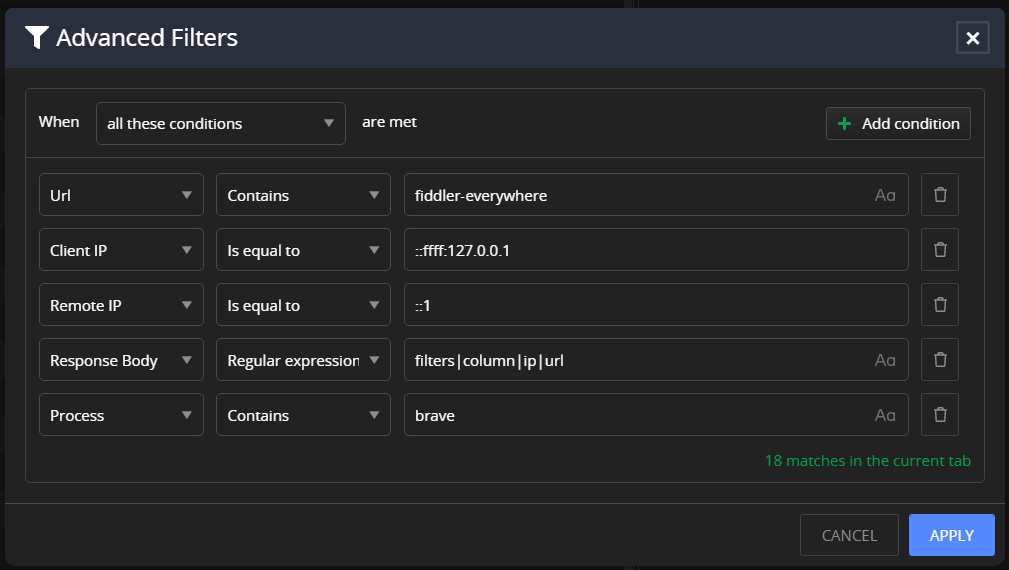
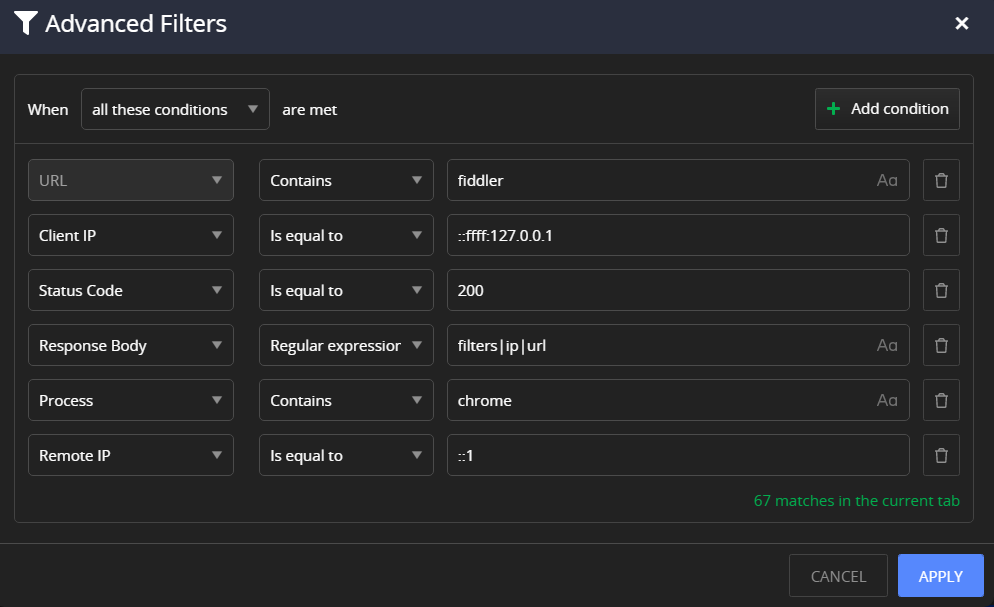
docs: update Adv Filters content and screenshots

diff --git a/user-guide/live-traffic.md b/user-guide/live-traffic.md
@@ -9,13 +9,13 @@ previous_url: /user-guide/toolbar/decode-content, /user-guide/toolbar, /user-gui
 
 # Live Traffic Section
 
-The **Live Traffic** section provides the most essential features of Fiddler Everywhere.
+The **Live Traffic** section provides essential features of Fiddler Everywhere.
 
-**Live Traffic** displays a summary of each captured session in the **Live Traffic** list. It also provides functionalities to work with these sessions through the **Live Traffic** toolbar, the [**Inspectors**]({%slug inspector-types%}) types, and the corresponding [**Rules**]({%slug rules-general%}) tab. The feature enables the saving and sharing of sessions, editing of issued requests, marking, commenting sessions, and applying rules.
+**Live Traffic** displays a summary of each captured session in the **Live Traffic** list. It also provides functionalities to work with these sessions through the **Live Traffic** toolbar, the [**Inspectors**]({%slug inspector-types%}) types, and the corresponding [**Rules**]({%slug rules-general%}) tab. The feature enables the saving and sharing of sessions, editing issued requests, marking, commenting sessions, and applying rules.
 
 ## Defining a Session
 
-A (web) session represents a single transaction between a client and a server, sometimes known as a request/response pair. Each session appears as a single entry in **Live Traffic**. Each session object has a **Request** and a **Response**, representing the data which the client has sent to the server and the data which has been returned by the server to the client. The session object also maintains a set of flags that record metadata about the session, and a timers object that stores timestamps logged during the processing of the session.
+A (web) session represents a single transaction between a client and a server, sometimes known as a request/response pair. Each session appears as a single entry in **Live Traffic**. Each session object has a **Request** and a **Response**, representing the data that the client has sent to the server and the data that the server has returned to the client. The session object also maintains a set of flags that record metadata about the session and a timers object that stores timestamps logged during the processing of the session.
 
 ![Live Traffic toolbar and list](../images/livetraffic/websessions/websessions-list-all.png)
 
@@ -43,9 +43,9 @@ The **Live Traffic** toolbar provides the following functionalities:
 
 By default, Fiddler Everywhere uses the buffering mode, which means that the responses are fully collected before any part is sent to the client. Buffering alters the responses&mdash;for example, an image won't begin to download until the containing page download is complete. With the streaming mode, the server responses are immediately returned to the client as it is downloaded. In the streaming mode, tampering with the response body is not possible.
 
-The streaming mode is useful for low-level network timing scenarios&mdash;for example, by design, some browsers will parse partially downloaded HTML, which will start the download of external resources in parallel before the remote server has finished delivering the content. The streaming mode is also useful if a site delivers audio or video streams as Fiddler Everywhere cannot buffer such constant streams.
+The streaming mode is helpful for low-level network timing scenarios&mdash;for example, by design, some browsers will parse partially downloaded HTML, which will start the download of external resources in parallel before the remote server has finished delivering the content. The streaming mode is also useful if a site offers audio or video streams, as Fiddler Everywhere cannot buffer such constant streams.
 
-![Buffering mode vs Streaming Mode](../images/livetraffic/websessions/websessions-toolbar-streaming-mode.png)
+![Buffering mode vs. Streaming Mode](../images/livetraffic/websessions/websessions-toolbar-streaming-mode.png)
 
 To toggle between the buffering and the streaming mode, click the **Stream** button.
 
@@ -62,14 +62,14 @@ Set the advanced filters as follows:
     - **any of these conditions**&mdash;The rule applies when any conditions are true (logical OR).
     - **none of these conditions**&mdash;The rule applies when none of the conditions is true (logical FALSE).
     >tip Learn more about the available [**match conditions**]({%slug rules-general%}#conditions), which apply for both in the advanced filters and rule creation.
-1. Add one or more conditions based on the HTTP Request and Response headers and provide logical operators.
+1. Add one or more match conditions based on the HTTP Request and Response headers and provide logical operators.
 1. Click **Apply** to close the **Advanced Filters** and activate the newly created filter.    
 
-![Advanced Filters](../images/livetraffic/websessions/websessions-toolbar-advanced-filters.png)
+![Advanced Filters](../images/kb/filters/adv-filters.png)
 
->tip All condition values connected to a **Live Traffic** columns can be auto-completed, and the auto-completion suggestions are based on the captured data. Additionally, a counter will show the number of matches (from the currently captured sessions) after adding a condition.
+>tip All condition values connected to a **Live Traffic** column can be auto-completed, and the auto-completion suggestions are based on the captured data. Additionally, after adding a condition, a counter will show the number of matches (from the currently captured sessions).
 
-Alternatively, you can apply filters through the **more** option (three vertical dots) on each Live Traffic column (for example, apply a filter for the _Host_ column ). The column filtering allows you to use the AND and OR logical operators (for two lines) and multiple logical operators (for example, **Is equal to**, **contains**, **ends with**, etc.). Learn more about [individual column sorting and filtering options](#sort-and-filter-traffic).
+Alternatively, you can apply filters through the **more** option (three vertical dots) on each Live Traffic column (for example, apply a filter for the _Host_ column ). The [column filtering]({%slug how-to-filter-traffic%}#column-filters) allows you to use the AND and OR logical operators (for two lines) and multiple logical operators (for example, **Is equal to**, **contains**, **ends with**, etc.). Learn more about [individual column sorting and filtering options](#sort-and-filter-traffic).
 
 
 
@@ -80,14 +80,14 @@ To reset all the filters applied through the advanced filters feature or to each
 
 ### Removing All
 
-To remove all captured sessions, use the **Remove All** button, which will automatically remove all captured traffic from the **Live Traffic** list. To remove only specific sessions, select the desired ones and use the remove options from [the context menu]({%slug web-sessions-list%}#remove).
+To remove all captured sessions, use the **Remove All** button, which automatically removes all captured traffic from the **Live Traffic** list. To remove only specific sessions, select the desired ones and use the remove options from [the context menu]({%slug web-sessions-list%}#remove).
 
 
 ### Preconfigured Browser Capturing
 
 Use the **Open Browser** button to capture traffic from a specific browser instance without the need to modify the system proxy settings. [Learn more about the preconfigured browser capturing...]({%slug capture-traffic-get-started%}#preconfigured-browser-capturing)
 
-![Use the Open Browser button to staert preconfigfured browser instance](../images/get-started/get-started-open-browser.png)
+![Use the Open Browser button to start preconfigured browser instance](../images/get-started/get-started-open-browser.png)
 
 ### Saving
 
@@ -99,7 +99,7 @@ To save sessions for later or prepare sessions for sharing:
 
 1. In the **Save Sessions** prompt window, enter a valid name and choose a folder to store the session.
 
-1. (Optional) Use the **password protection** switch to enable encryption and set a password. Only users with knowledge of the password will be able to open the entry.
+1. (Optional) Use the **password protection** switch to enable encryption and set a password. Only users with knowledge of the password can open the entry.
 
 1. Click **Save**. The saved session immediately loads in the **Sessions** list.
 
@@ -107,7 +107,7 @@ To save sessions for later or prepare sessions for sharing:
 
 ### Sharing
 
-Sharing sessions dramatically improves collaboration, and Fiddler Everywhere provides the following options to export and share sessions:
+Sharing sessions dramatically improve collaboration, and Fiddler Everywhere provides the following options to export and share sessions:
 
 - Sharing through the **Share** button from a saved session entry in [the **Sessions** list]({%slug saved-sessions-tab%}#sharing-sessions)).
 
@@ -125,7 +125,7 @@ To share a session through the toolbar:
 
 ### Searching
 
-To search for specific values in the URL and the headers of all sessions, use the **Search** text input. The search action will immediately filter and show all sessions, which contain the search terms.
+To search for specific values in the URL and the headers of all sessions, use the **Search** text input. The search action will immediately filter and show all sessions containing the search terms.
 
 
 ### Toggling Layout
@@ -146,7 +146,7 @@ The **Live Traffic** list displays a list of web sessions with a summary of each
 
 ![Live Traffic](../images/livetraffic/websessions/websessions-list-columns.png)
 
-Many operations begin by selecting one or more entries in the **Live Traffic** and then activating other features.
+Many operations begin by selecting one or more entries in the **Live Traffic** and activating other features.
 
 - To select more than one session, hold the **Ctrl** (**Command** on Mac) or **Shift** keys while clicking the desired rows.
 
@@ -158,7 +158,7 @@ When the **Inspectors** are activated, they will automatically decide which insp
 
 The **Live Traffic List** uses icons to provide additional context for each recorded session. To trigger an explanatory tooltip, hover over a **Live Traffic** list entry icon.
 
-The following table displays the icons, which **Live Traffic** supports for its list:
+The following table displays the icons which **Live Traffic** supports for its list:
 
 
 <table style="width: 80%; border-collapse: collapse;">
@@ -296,7 +296,7 @@ Each [list icon](#list-icons) can contain an additional triangle warning that in
 
     ![Certificate error note](../images/livetraffic/certs/certficate-error-note.png)
 
-- Absence of the triangle warning means that there are no issues with the server certificate. You can still expand and inspect the used certificate in detail through the Response inspector notification. 
+- Absence of the triangle warning means no issues with the server certificate. You can still expand and inspect the used certificate in detail through the Response inspector notification. 
 
     ![Valid Certificate details](../images/livetraffic/certs/certficate-valid-note.png)
 
@@ -333,7 +333,7 @@ The following table lists the **Live Traffic** columns and the key information t
         </tr>
         <tr>
             <td><b>Host</b></td>
-            <td>The hostname and the port of the server to which the request was sent. The column also indicates requests with <b>CONNECT</b> method with the <b>Tunnel to</b> value (<a href="https://textslashplain.com/2015/11/19/understanding-connect-tunnels/">CONNECT tunnels in Fiddler</a>).</td>
+            <td>The hostname and the server's port to which the request was sent. The column also indicates requests with <b>CONNECT</b> method with the <b>Tunnel to</b> value (<a href="https://textslashplain.com/2015/11/19/understanding-connect-tunnels/">CONNECT tunnels in Fiddler</a>).</td>
         </tr>
         <tr>
             <td><b>Path</b></td>
@@ -401,7 +401,7 @@ The following table lists the **Live Traffic** columns and the key information t
 
 ## Traffic Sorting and Filtering
 
-By default, the captured traffic is sorted in the order sessions appear during the traffic capturing, that is, sorted by the unique identification number column, and no active filters are applied. You can use the built-in [sorting](#sorting-options) and [filtering](#filtering-options) options to optimize the outcome.
+By default, the captured traffic is sorted in the order sessions appear during the traffic capturing, sorted by the unique identification number column, and no active filters are applied. You can use the built-in [sorting](#sorting-options) and [filtering](#filtering-options) options to optimize the outcome.
 
 ### Sorting Options
 
@@ -411,7 +411,7 @@ To create a custom sorting order, click the desired column. For example, click t
 
 Each column comes with a **more** button (three vertical dots), which opens a popup with additional **Filter** and **Columns** submenus.
 
-The **Filter** submenu enables you to apply filters to the currently selected column only&mdash;for example, filter all the traffic by the **host** name or by a specific **status code**. Columns with active filters will have a blue filter indicator. You can clear active filters through the **Filter** popup (for the filtered column) or through the global [**Clear All Filters** button](##clearing-all-filters).
+The **Filter** submenu enables you to apply filters to the currently selected column only&mdash;for example, filter all the traffic by the **host** name or by a specific **status code**. Columns with active filters will have a blue filter indicator. You can clear active filters through the **Filter** popup (for the filtered column) or the global [**Clear All Filters** button](##clearing-all-filters).
 
 ![Filter context submenu](../images/livetraffic/columns/dots-filter.png)
 
@@ -538,7 +538,7 @@ Saved and shared sessions will contain the added comments.
 
 ### Marking
 
-To apply colors or to strike out single or multiple sessions use the **Mark** context menu option.
+To apply colors or to strike out single or multiple sessions, use the **Mark** context menu option.
 
 1. Select the sessions, open the context menu, and click the **Mark** option.
 

diff --git a/knowledge-base/filter-traffic.md b/knowledge-base/filter-traffic.md
@@ -17,17 +17,20 @@ res_type: kb
 
 ## Description
 
-
 When the [system capturing]({%slug capture-traffic-get-started%}#system-capturing) is enabled, Fiddler Everywhere sets itself as a system proxy. That means that all HTTP/HTTPS/WebSocket traffic from client applications that respect the system proxy will be captured and output as session entries in the [**Live Traffic list**]({%slug web-sessions-list%}#live-traffic-list). 
 
-Modern applications are often generating hundreds and even thousands of requests, which might pollute your list with a lot of unwanted information. This article reveals some of the options you can use to filter the captured traffic.
+Modern applications are often generating hundreds and even thousands of requests, which might pollute your list with a lot of unwanted information. This article reveals some of the options you can use to filter the captured traffic or to lower the amount of traffic that is captured.
 
+- [Filter the traffic through column filters](#column-filters)
+- [Filter the traffic through advanced filters](#advanced-filters)
+- [Turn off the global capturing and use a single browser instance](#using-predefined-browser-capturing)
+- [Bypass requests to specific domains from using the Fiddler proxy](#bypassing-the-proxy)
 
 ## Column Filters
 
-Each column from the [**Live Traffic list**]({%slug web-sessions-list%}#live-traffic-list) has its own [filtering menu]({%slug web-sessions-list%}#filtering-options). Each filter condition contains different logical operations, for example, **contains**, **starts with**, **ends with**, **is equal to**, and so on. Each condition combines with the filter value which, depending on the column type, can be a string, number, or boolean. You can apply up to two filter conditions per each column filter.
+Each column from the [**Live Traffic list**]({%slug web-sessions-list%}#live-traffic-list) has its own [filtering menu]({%slug web-sessions-list%}#filtering-options). Each filter condition contains different logical operations, for example, **contains**, **starts with**, **ends with**, **is equal to**, and so on. Each condition combines with the filter value, which, depending on the column type, can be a string, number, or boolean. You can apply up to two filter conditions per column filter.
 
-Below, you will find column filters examples and a short description of their use.
+Below, you will find column filter examples and a short description of their use.
 
 ### Filtering by the URL Column
 
@@ -45,14 +48,14 @@ To filter traffic from a specific application, use the **Process** column.
 
 ### Filtering by the Client IP Column
 
-When Fiddler Everywhere captures traffic only from the host machine, the **Client IP** column will always have an identical value which usually is a localhost address such as `:ffff:127.0.0.1`. However, that is not the case when Fiddler captures traffic from multiple hosts, that is, through **Allow remote computers to connect** and when the remote machines are set to follow the Fiddler proxy. Here is where filtering by the **Client IP** column is beneficial because it allows you to filter the traffic that comes from a specific IP.
+When Fiddler Everywhere captures traffic only from the host machine, the **Client IP** column will always have an identical value, usually a localhost address such as `:ffff:127.0.0.1`. However, that is not the case when Fiddler captures traffic from multiple hosts, that is, through **Allow remote computers to connect** and when the remote machines are set to follow the Fiddler proxy. Here is where filtering by the **Client IP** column is beneficial because it allows you to filter the traffic that comes from a specific IP.
 
 ![Filter by Client IP](../images/kb/filters/fcolumn-client-ip.png)
 
 
 ### Filtering by the Remote IP Column
 
-When you filter by a domain name or a specific API endpoint, you can still observe some sessions which contain the filter term and which come from third parties like Google Analytics, click trackers, and so on. You can further restrict the output by explicitly filtering by the **Remote IP** column, which indicates the server IP address that is used for this request.
+When you filter by a domain name or a specific API endpoint, you can still observe some sessions which contain the filter term and which come from third parties like Google Analytics, click trackers, and so on. You can further restrict the output by explicitly filtering by the **Remote IP** column, which indicates the server IP address used for this request.
 
 ![Filter by Remote IP](../images/kb/filters/fcolumn-remote-ip.png)
 
@@ -64,10 +67,11 @@ The **Advanced Filters** toolbar option enables you to apply complex filtering s
 
 The following example demonstrates five filter conditions that match 18 sessions in the current **Live Traffic** tab. The filter is applied when all conditions are satisfied, and each condition does the following:
 - The first condition (`URL` > `contains` > `fiddler-everywhere`) will match when the URL address contains the `fiddler-everywhere` term.
-- The second condition (`Client IP` > `is equal to` > `:ffff:127.0.0.1`) will match only the localhost IP address. The `:ffff:` is a subnet prefix for IPv4 (32 bit) addresses that are placed inside an IPv6 (128 bit) space.
-- The third condition (`Remote IP` > `is equal to` > `::1`) will match only when the request comes from the localhost. The `::1` is the loopback address in IPv6. This specific condition is useful when testing HTTP/HTTPS sessions from a localhost development environment, but it can also be applied to any real-life IP server address.
-- The fourth condition (`Response Body` > `Regular Expression` > `filter|column|ip|url`) will match only a session where the Response Body contains any terms set through the regular expression. The used regex can be interpreted as `regexp/filter|column|ip|url`.
-- The fifth condition (`Process` > `Contains` > `brave`) will match only requests coming from a client application in which the local OS process name contains `brave`.
+- The second condition (`Client IP` > `is equal to` > `:ffff:127.0.0.1`) will match only the localhost IP address. The `:ffff:` is a subnet prefix for IPv4 (32 bit) addresses placed inside an IPv6 (128 bit) space.
+- The third condition (`Status Code` > `is equal to` > `200`) will match only when the status code of the response is 200.
+- The fourth condition (`Response Body` > `Regular Expression` > `filter|ip|url`) will match only a session where the Response Body contains any terms set through the regular expression. The regex can be interpreted as `regexp/filter|ip|url`.
+- The fifth condition (`Process` > `Contains` > `chrome`) will match only requests coming from a client application in which the local OS process name contains `chrome`.
+- The sixth condition (`Remote IP` > `is equal to` > `::1`) will match only when the request comes from the localhost. The `::1` is the loopback address in IPv6. This specific condition is useful when testing HTTP/HTTPS sessions from a localhost development environment, but it can also be applied to any real-life IP server address.
 
 ![Multiple advanced filter conditions](../images/kb/filters/adv-filters.png)
 
@@ -77,4 +81,4 @@ The [predefined browser capturing]({%slug capture-traffic-get-started%}#preconfi
 
 ## Bypassing the Proxy
 
-While bypassing the proxy is not technically related to filtering, requests to specific domains may not be going through the Fiddler proxy but directly through the upstream proxy. As a result, these sessions won't pollute your **Live Traffic** tab. You can set a list of domains to bypass (not available for processes) through the [**Connections** menu]({%slug connections-submenu%}).
+While bypassing the proxy is not technically related to filtering, requests to specific domains may not go through the Fiddler proxy but directly through the upstream proxy. As a result, these sessions won't pollute your **Live Traffic** tab. You can set a list of domains to bypass (not available for processes) through the [**Connections** menu]({%slug connections-submenu%}).

diff --git a/traffic/capture-traffic.md b/traffic/capture-traffic.md
@@ -13,7 +13,7 @@ Out of the box, Fiddler Everywhere provides an automatic capturing functionality
 
 ## System Capturing vs. Preconfigured Browser Capturing
 
-The following table demonstrates the major differences between the two functionalities.
+The following table demonstrates the significant differences between the two functionalities.
 
 | Feature          |System Capturing |Preconfigured Browser Capturing  
 |:-----------------|:----------------|:-----------------
@@ -21,7 +21,7 @@ The following table demonstrates the major differences between the two functiona
 | Modification of the system proxy | Requires modification of the system proxy. | Automatically configures the system proxy for Google Chrome.
 | Explicit installation of the trust root certificate | Requires you to add the certificate in the OS keychain. | No certificate configuration needed - automatically configures the trust certificate for Google Chrome.
 | Capturing of browser traffic   | Supports all browsers.  | Support for all Chromium browsers.
-| Capturing of other applications traffic | Yes. Supports traffic capturing on virtually any application that uses the system proxy. | No.
+| Capturing of other applications traffic | Yes. It supports traffic capturing on virtually any application that uses the system proxy. | No.
 | Required administrative access | Requires OS admin rights for installing and trusting a root certificate and modifying the system proxy.  | Requires user rights for starting a Chromium browser with custom parameters.
 | Working with VPN tooling       | Requires Cisco VPN support. | Provides multiple VPN tooling support out-of-the-box.
 | Captured output                | Captures all traffic that goes through the system proxy. | Captures only the traffic from the preconfigured browser instance.
@@ -48,7 +48,7 @@ To capture system traffic with Fiddler Everywhere:
 
 The preconfigured browser capturing is a feature that allows you to capture traffic from a specific browser instance. Currently, Fiddler Everywhere supports preconfigured browser capturing only for Chromium browsers.
 
-The feature is useful when you need to capture browser traffic, but your environment doesn't allow you to change the system proxy or install and trust root certificates. It also solves the compatibility issues with some VPN and third-party security tools, which modify the system proxy. Additionally, it allows you to focus your capturing on a sandboxed browser instance and prevent the capturing of other system traffic.
+The feature is useful when you need to capture browser traffic, but your environment doesn't allow you to change the system proxy or install and trust root certificates. It also solves the compatibility issues with VPN and third-party security tools, which modify the system proxy. Additionally, it allows you to focus your capturing on a sandboxed browser instance and prevent capturing other system traffic.
 
 To start the preconfigured browser capturing with Fiddler Everywhere:
 
@@ -73,7 +73,7 @@ Fiddler Everywhere 3.0 and above support HTTP/2 traffic capture and composing. N
 
 - With the **Enable HTTP/2 support (BETA)** option, the connection between a client and a server will default to HTTP/2 if both support it. When the option is disabled, Fiddler Everywhere forces the communication to go through HTTP/1.1.
 
-- Even with HTTP/2 support enabled, Fiddler Everywhere cannot guarantee that all requests will use HTTP/2. If a client only supports HTTP/1.1 or lower, Fiddler will only communicate using the client's version. If the client works with HTTP/2, but the server does not, Fiddler will allow the HTTP/2 request, but internally it will translate the request to HTTP/1.1 when communicating with the server.
+- Even with HTTP/2 support enabled, Fiddler Everywhere cannot guarantee that all requests will use HTTP/2. If a client only supports HTTP/1.1 or lower, Fiddler will only communicate using the client's version. If the client works with HTTP/2 but the server does not, Fiddler will allow the HTTP/2 request, but internally it will translate the request to HTTP/1.1 when communicating with the server.
 
 - Some browsers will share a single HTTP/2 connection to a website between several different tabs and keep a connection open for some time even after a tab is closed. That could lead to unexpected behavior with the beta HTTP/2 support in Fiddler Everywhere, so if you experience similar issues, you should restart the browser.
 

diff --git a/traffic/inspect-traffic.md b/traffic/inspect-traffic.md
@@ -11,26 +11,25 @@ previous_url: /get-started/inspect-traffic, /get-started/traffic/inspect-traffic
 
 When the traffic is already captured, you can start analyzing the data.
 
-To extract information about the captured sessions, go to the [**Live Traffic**]({%slug web-sessions-list%}) tab where each request/response entry (session) is listed in a row with multiple columns fields in the **Sessions** list. There you can extract valuable data such as the returned status code, the host and the URL, the type of the used protocol (HTTP or HTTPS), the body sizer in bytes, the used HTTP method (GET or POST), and more.
+To extract information about the captured sessions, go to the [**Live Traffic**]({%slug web-sessions-list%}) tab, where each request/response entry (session) is listed in a row with multiple columns fields in the **Sessions** list. There you can extract valuable data such as the returned status code, the host and the URL, the type of the used protocol (HTTP or HTTPS), the body sizer in bytes, and the HTTP method (GET or POST), and more. The output traffic can be [filtered]({%slug how-to-filter-traffic%}), [exported]({%slug web-sessions-list%}#exporting), [commented on]({%slug web-sessions-list%}#commenting), and [shared]({%slug collaboration-get-started%}) for further and detailed inspection.
 
-To open the structured information about the session timings, sizes, request, and response details in the [**Overview** tab]({%slug overview-tab%}), single-click a session or select multiple sessions.
+To open the structured information about the session timings, sizes, requests, and response details in the [**Overview** tab]({%slug overview-tab%}), single-click a session or select multiple sessions.
 
 ![Live Traffic and session overview](../images/livetraffic/websessions/websessions-list-all-overview.png)
 
 To load [the request and response inspectors]({%slug inspector-types%}), double-click a session. The [**Inspectors** tab]({%slug inspector-types%}) is a powerful tool that allows you to deep-dive in each session so you and your teammates can debug it or find performance bottlenecks.
 
-
 The following rules are applied when you are selecting and changing sessions and using the **Inspectors** tab:
 
-- Double-click a session to activate the default Inspectors for a selected session. Fiddler Everywhere will automatically decide which inspector is best suited to display the request and response of the selected session when the inspectors are activated.
+- Double-click a session to activate the default Inspectors for a selected session. Fiddler Everywhere will automatically decide which inspector is best suited to display the request and response of the chosen session when the inspectors are activated.
 
 - Single-click a session to activate the last shown Inspectors. This is useful when you want to inspect specific inspectors for many sessions, and you don't need Fiddler Everywhere to load the best inspector based on the requests or response data.
 
 ![Live Traffic and Inspectors](../images/livetraffic/websessions/websessions-list-all.png)
 
-To save a selected session or multiple selected sessions, use the [context menu]({%slug web-sessions-list%}#save), or, alternatively, use a keyboard shortcut. Saved sessions are available in the [**Sessions list**]({%slug saved-sessions-tab%}) from which they can be reloaded or shared with collaborators.
+To save a selected session or multiple selected sessions, use the [context menu]({%slug web-sessions-list%}#save) or use a keyboard shortcut. Saved sessions are available in the [**Sessions list**]({%slug saved-sessions-tab%}) from which they can be reloaded or shared with collaborators.
 
-Inspecting sessions is often done with teammates or external collaborators. Share a selected session or multiple selected sessions directly from the [__Live Traffic__ list]({%slug web-sessions-list%}#share) or by using the [__Sessions__ list]({%slug saved-sessions-tab%}).
+The inspection of sessions often happens with teammates or external collaborators. Share a selected session or multiple selected sessions directly from the [__Live Traffic__ list]({%slug web-sessions-list%}#share) or by using the [__Sessions__ list]({%slug saved-sessions-tab%}).
 
 ## Additional Resources
 

diff --git a/traffic/compare-traffic.md b/traffic/compare-traffic.md
@@ -71,7 +71,7 @@ The **Compare Sessions (BETA)** tab provides the following options to customize 
 
 - **Match sessions by**&mdash;Highlights unmatched sessions with default criteria set to match by **URL**. The possible match options are as follows:
     - **URL** match to highlight sessions with different URLs.
-    - **Order** match session by their order in ther ID column. The ID is the Fiddler Everywhere unique identificator for each captured session.
+    - **Order** match session by their order in their ID column. The ID is the Fiddler Everywhere unique identification for each captured session.
 
     ![Match sessions popup](../images/livetraffic/compare/compare-options-match-sessions.png)
 
@@ -81,8 +81,9 @@ The **Compare Sessions (BETA)** tab provides the following options to customize 
 
 ## Additional Resources
 
-* [Capturing Options with Fiddler Everywhere]({%slug capture-traffic-get-started%})
-- [Inspecting Captured Traffic]({%slug inspecting-traffic-get-started%}).
+- [Capturing Options with Fiddler Everywhere]({%slug capture-traffic-get-started%})
+- [Inspecting Captured Traffic]({%slug inspecting-traffic-get-started%})
+- [Filtering Output Traffic]({%slug how-to-filter-traffic%})
 - [Modifying Traffic]({%slug modify-traffic-get-started%})
 - [Composing Requests with Basic Authentication]({%slug basic-authentication-with-fiddler-everywhere%})
 - [Composing SOAP Requests]({%slug fiddler-composer-soap%})
